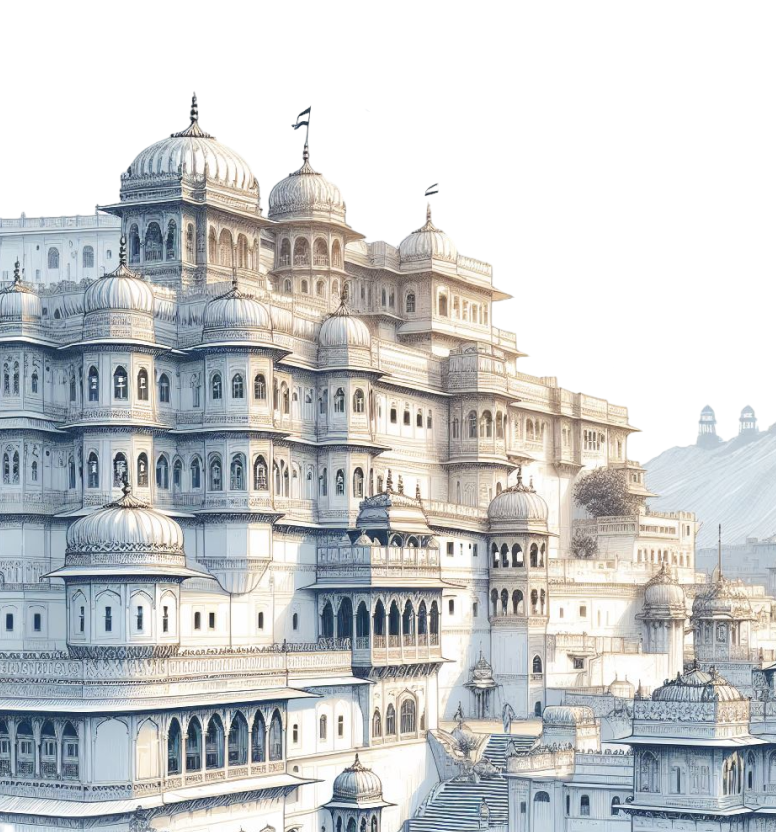
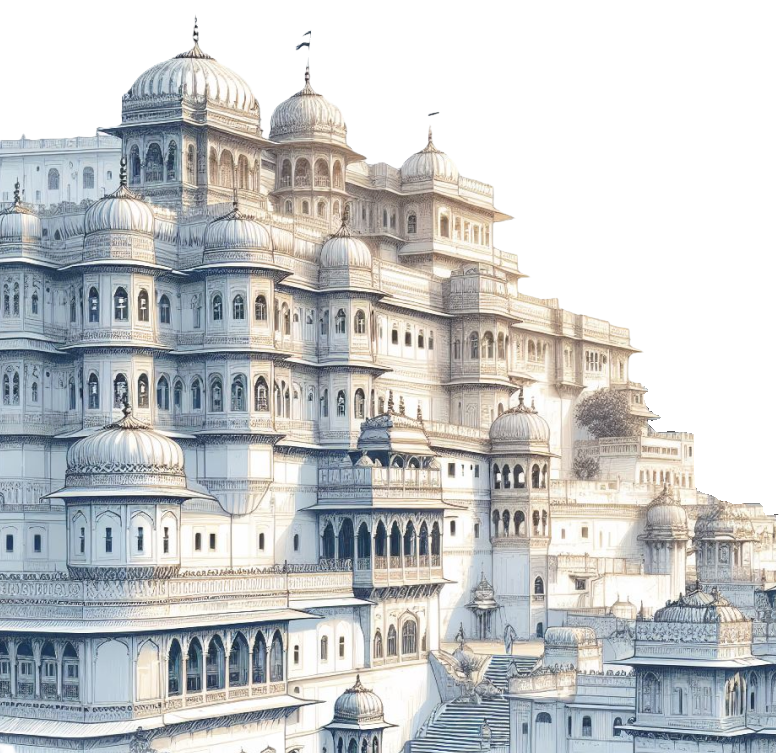
home page

diff --git a/src/components/parallax/page5.js b/src/components/parallax/page5.js
@@ -1,7 +1,7 @@
 import React from 'react'
 import Image from 'next/image'
-import cloudBottom from "../../../public/assets/home/page2/bottomCloud.png"
-import cloudBg from "../../../public/assets/home/page2/cloudBg.png"
+import cloudfront from "../../../public/assets/home/page5/cloudfront.png"
+import cloudback from "../../../public/assets/home/page5/cloudback.png"
 import fort from "../../../public/assets/home/page5/fort.png"
 import moon from "../../../public/assets/home/page5/moon.png"
 import cloudBig from "../../../public/assets/home/page2/cloudBig.png"
@@ -11,13 +11,13 @@ function Page5() {
     <div className='h-screen w-full relative flex items-center'>
         {/* <Image className='absolute bottom-0 ' src = {bg}/> */}
         <div className='h-screen w-full absolute bottom-0' style={{ background:" linear-gradient(180deg, #292929 -7.2%, #5F5F5F 79.53%)"}}></div>
-        <Image className='absolute bottom-0 z-20' src={cloudBottom}/>
-        <Image className='absolute bottom-0 z-0' src={cloudBg}/>
-        <Image className='absolute bottom-0 z-0 h-screen object-cover object-top w-[60%]' src={fort}/>
-        <Image className='absolute top-10 right-10 scale-50 z-0' src={moon}/>
-        <Image className='absolute top-32 right-2 scale-50 z-0' src={cloudBig}/>
-        <Image className='absolute top-24 right-40 scale-50 z-0' src={cloudSmall}/>
-        <p className='absolute top-5 left-5 text-transparent bg-clip-text font-sankaran text-4xl md:text-7xl ' style={{background:"linear-gradient(180deg, #FFF 28.93%, #A4A4A4 78.47%)"}}>About Us</p>
+        <Image className='absolute bottom-0 z-20 w-full h-96' src={cloudfront}/>
+        <Image className='absolute bottom-0 z-0 w-full h-[500px]' src={cloudback}/>
+        <Image className='absolute bottom-0 z-0 w-full md:w-[60%] max-h-[80%] md:max-h-screen object-cover object-top' src={fort}/>
+        <Image className='absolute top-0  right-10 scale-50 z-0' src={moon}/>
+        <Image className='absolute top-48 right-2 scale-50 z-0' src={cloudBig}/>
+        <Image className='absolute top-24 right-60 scale-50 z-0' src={cloudSmall}/>
+        <p className='absolute md:right-16   text-transparent bg-clip-text font-sankaran text-4xl md:text-7xl ' style={{background:"linear-gradient(180deg, #FFF 28.93%, #A4A4A4 78.47%)"}}>About Us</p>
     </div>
   )
 }

diff --git a/src/components/parallax/page4.js b/src/components/parallax/page4.js
@@ -1,7 +1,7 @@
 import React from 'react'
 import Image from 'next/image'
-import cloudBottom from "../../../public/assets/home/page2/bottomCloud.png"
-import cloudBg from "../../../public/assets/home/page2/cloudBg.png"
+import cloudfront from "../../../public/assets/home/page4/cloudfront.png"
+import cloudback from "../../../public/assets/home/page4/cloudback.png"
 import fort from "../../../public/assets/home/page4/fort.png"
 import moon from "../../../public/assets/home/page4/moon.png"
 import cloudBig from "../../../public/assets/home/page2/cloudBig.png"
@@ -11,10 +11,10 @@ function Page4() {
     <div className='h-screen w-full relative flex items-center'>
         {/* <Image className='absolute bottom-0 ' src = {bg}/> */}
         <div className='h-screen w-full absolute bottom-0' style={{ background:" linear-gradient(180deg, #CF7C33 -7.2%, #FFE793 79.53%)"}}></div>
-        <Image className='absolute bottom-0 z-20' src={cloudBottom}/>
-        <Image className='absolute bottom-0 z-0' src={cloudBg}/>
-        <Image className='absolute bottom-0 right-0 z-0 w-full sm:w-[60%] max-h-[60%] sm:max-h-screen object-cover object-top' src={fort}/>
-        <Image className='absolute top-10 left-10  z-0' src={moon}/>
+        <Image className='absolute bottom-0 z-20 w-full ' src={cloudfront}/>
+        <Image className='absolute bottom-0 z-0 w-full' src={cloudback}/>
+        <Image className='absolute bottom-0 right-0 z-0 w-full md:w-[60%] max-h-[80%] md:max-h-screen  object-cover object-top' src={fort}/>
+        <Image className='absolute w-[200px] md:w-[370px] bottom-[3%] left-10  -z-10 md:z-0' src={moon}/>
         <Image className='absolute top-32 right-2 scale-50 z-0' src={cloudBig}/>
         <Image className='absolute top-24 right-40 scale-50 z-0' src={cloudSmall}/>
         <p className='absolute top-5 left-5 text-transparent bg-clip-text font-sankaran text-4xl md:text-7xl' style={{background: "linear-gradient(97deg, #2D1502 28.53%, #B16529 99.14%)"}}>Campus Ambassador</p>

diff --git a/src/components/parallax/Page3.js b/src/components/parallax/Page3.js
@@ -1,7 +1,7 @@
 import React from 'react'
 import Image from 'next/image'
-import cloudBottom from "../../../public/assets/home/page2/bottomCloud.png"
-import cloudBg from "../../../public/assets/home/page2/cloudBg.png"
+// import cloudBottom from "../../../public/assets/home/page2/bottomCloud.png"
+import cloudback from "../../../public/assets/home/page3/cloudback.png"
 import fort from "../../../public/assets/home/page3/fort.png"
 import moon from "../../../public/assets/home/page3/moon.png"
 import cloudBig from "../../../public/assets/home/page2/cloudBig.png"
@@ -12,10 +12,10 @@ function Page3() {
         {/* <Image className='absolute bottom-0 ' src = {bg}/> */}
         <div className='h-screen w-full absolute bottom-0' style={{ background: "linear-gradient(180deg, #5DAAE7 -7.87%, #BEEBFF 74.4%)"}}></div>
         {/* <Image className='absolute bottom-0 z-20' src={cloudBottom}/> */}
-        {/* <Image className='absolute bottom-0 z-0' src={cloudBg}/> */}
+        <Image className='absolute bottom-0 z-0 w-full max-h-40' src={cloudback}/>
         <Image
           
-        className='absolute bottom-0  object-top  z-10 w-[60%] max-h-[80%] 'style={{objectFit:"cover",
+        className='absolute w-full md:w-[55%] bottom-0  object-top  z-10  max-h-[80%] 'style={{objectFit:"cover",
     minHeight:"70%",objectPosition:"top"}} src={fort}/>
         <Image className='absolute top-[20%] left-[13%] w-[240px] z-0' src={moon}/>
         <Image className='absolute top-32 right-2 scale-50 z-0' src={cloudBig}/>

diff --git a/src/components/parallax/Page2.js b/src/components/parallax/Page2.js
@@ -6,14 +6,21 @@ import hawa from "../../../public/assets/home/page2/hawa.png"
 import moon from "../../../public/assets/home/page2/moon.png"
 import cloudBig from "../../../public/assets/home/page2/cloudBig.png"
 import cloudSmall from "../../../public/assets/home/page2/cloudSmall.png"
+import { useParallax } from 'react-scroll-parallax'
 function Page2() {
+  const {ref:fortref} = useParallax({
+      translateX:[-200,20]
+
+  })
+
+
   return (
     <div className='h-screen w-full relative flex items-center'>
         {/* <Image className='absolute bottom-0 ' src = {bg}/> */}
-        <div className='h-screen sm:h-screen w-full absolute bottom-0' style={{ background: "linear-gradient(180deg, #E6745A -7.87%, #FFBCB6 74.4%)"}}></div>
+        <div className='h-screen w-full absolute bottom-0' style={{ background: "linear-gradient(180deg, #E6745A -7.87%, #FFBCB6 74.4%)"}}></div>
         <Image className='absolute max-h-[80%]  bottom-0 w-full z-20' src={cloudBottom}/>
         <Image className='absolute bottom-0 w-full z-0' src={cloudBg}/>
-        <Image className='absolute bottom-0 z-0 w-full sm:w-[60%] max-h-[90%] object-cover' src={hawa}/>
+        <Image ref={fortref} className='absolute bottom-0 z-0 w-full md:w-[60%] max-h-[90%] object-cover' src={hawa}/>
         <Image className='absolute  top-0  right-10 scale-50 z-0' src={moon}/>
         <Image className='absolute  top-32 right-2 scale-50 z-0' src={cloudBig}/>
         <Image className='absolute top-24 right-40 scale-50 z-0' src={cloudSmall}/>

diff --git a/src/pages/xyz.js b/src/pages/xyz.js
@@ -1,0 +1,57 @@
+import React, { useState, useEffect } from 'react';
+
+const ScrollColorChangeComponent = () => {
+  const [bgColor, setBgColor] = useState('#3498db'); // Initial background color
+
+  const handleScroll = () => {
+    const scrollPosition = window.scrollY;
+
+    // You can adjust the condition based on your scroll behavior
+    if (scrollPosition > 100) {
+      setBgColor('#e74c3c'); // Change to the target background color
+    } else {
+      setBgColor('#3498db'); // Initial background color
+    }
+  };
+
+  useEffect(() => {
+    // Add event listener for scroll on component mount
+    window.addEventListener('scroll', handleScroll);
+
+    // Remove event listener on component unmount
+    return () => {
+      window.removeEventListener('scroll', handleScroll);
+    };
+  }, []);
+
+  return (
+    <div
+      style={{
+        width: '100%',
+        height: '100vh',
+        display: 'flex',
+        justifyContent: 'center',
+        alignItems: 'center',
+        transition: 'background-color 0.5s ease', // Add a smooth transition
+        backgroundColor: bgColor,
+      }}
+    >
+      <h1 style={{ color: 'white' }}>Scroll to Change Background Color</h1>
+      <div className='h-screen'>
+
+      </div>
+      <div className='h-screen'>
+
+</div>
+<div className='h-screen'>
+
+</div>
+<div className='h-screen'>
+
+</div>
+
+    </div>
+  );
+};
+
+export default ScrollColorChangeComponent;

diff --git a/src/pages/index.js b/src/pages/index.js
@@ -1,27 +1,23 @@
+import { useEffect } from 'react';
+import { motion, useAnimation, useMotionValue } from 'framer-motion';
+import { useInView } from 'react-intersection-observer';
+import Page1 from '@/components/parallax/Page1';
+import Page2 from '@/components/parallax/Page2';
+import Page3 from '@/components/parallax/Page3';
+import Page4 from '@/components/parallax/page4';
+import Page5 from '@/components/parallax/page5';
 
-import HomeParrallax from '@/components/parallax/HomeParrallax'
-import Model from './model'
-import Page1 from '@/components/parallax/Page1'
-import Page2 from '@/components/parallax/Page2'
-import Page3 from '@/components/parallax/Page3'
-import Page4 from '@/components/parallax/page4'
-import Page5 from '@/components/parallax/page5'
-export default function Home() {
+const Home = () => {
 
-  
+
   return (
-    <>
-  
-    {/* <Model/> */}
-    {/* <HomeParrallax/> */}
-    <Page1/>
-    <Page2/>
-    <Page3/>
-    <Page4/>
-    <Page5/>
+<>
+<Page2/>
+<Page3/>
+<Page4/>
+<Page5/>
+</>
+  );
+};
 
-  
-    </>
-
-  )
-}
+export default Home;

diff --git a/src/components/layout.js b/src/components/layout.js
@@ -1,13 +1,20 @@
+"use client"
+
 import Footer from "./Footer";
 import React from "react";
+import { ParallaxProvider } from "react-scroll-parallax";
 
 function Layout({ children }) {
   return (
+    <ParallaxProvider>
+
     <div className="layout ">
-      <div className="sidebar fixed z-[9999999]  ">{/* <Sidebar/> */}</div>
-      <div className="content flex-1 relative w-full ">{children}</div>
+      {/* <div className="sidebar fixed z-[9999999]  "><Sidebar/></div> */}
+
+      <div className="content flex-1 w-full ">{children}</div>
       <Footer />
     </div>
+    </ParallaxProvider>
   );
 }
 

diff --git a/src/components/Navbar.js b/src/components/Navbar.js
@@ -1,0 +1,11 @@
+import React from 'react'
+
+function Navbar() {
+  return (
+    <div className='nav w-full h-64 '>
+
+    </div>
+  )
+}
+
+export default Navbar
